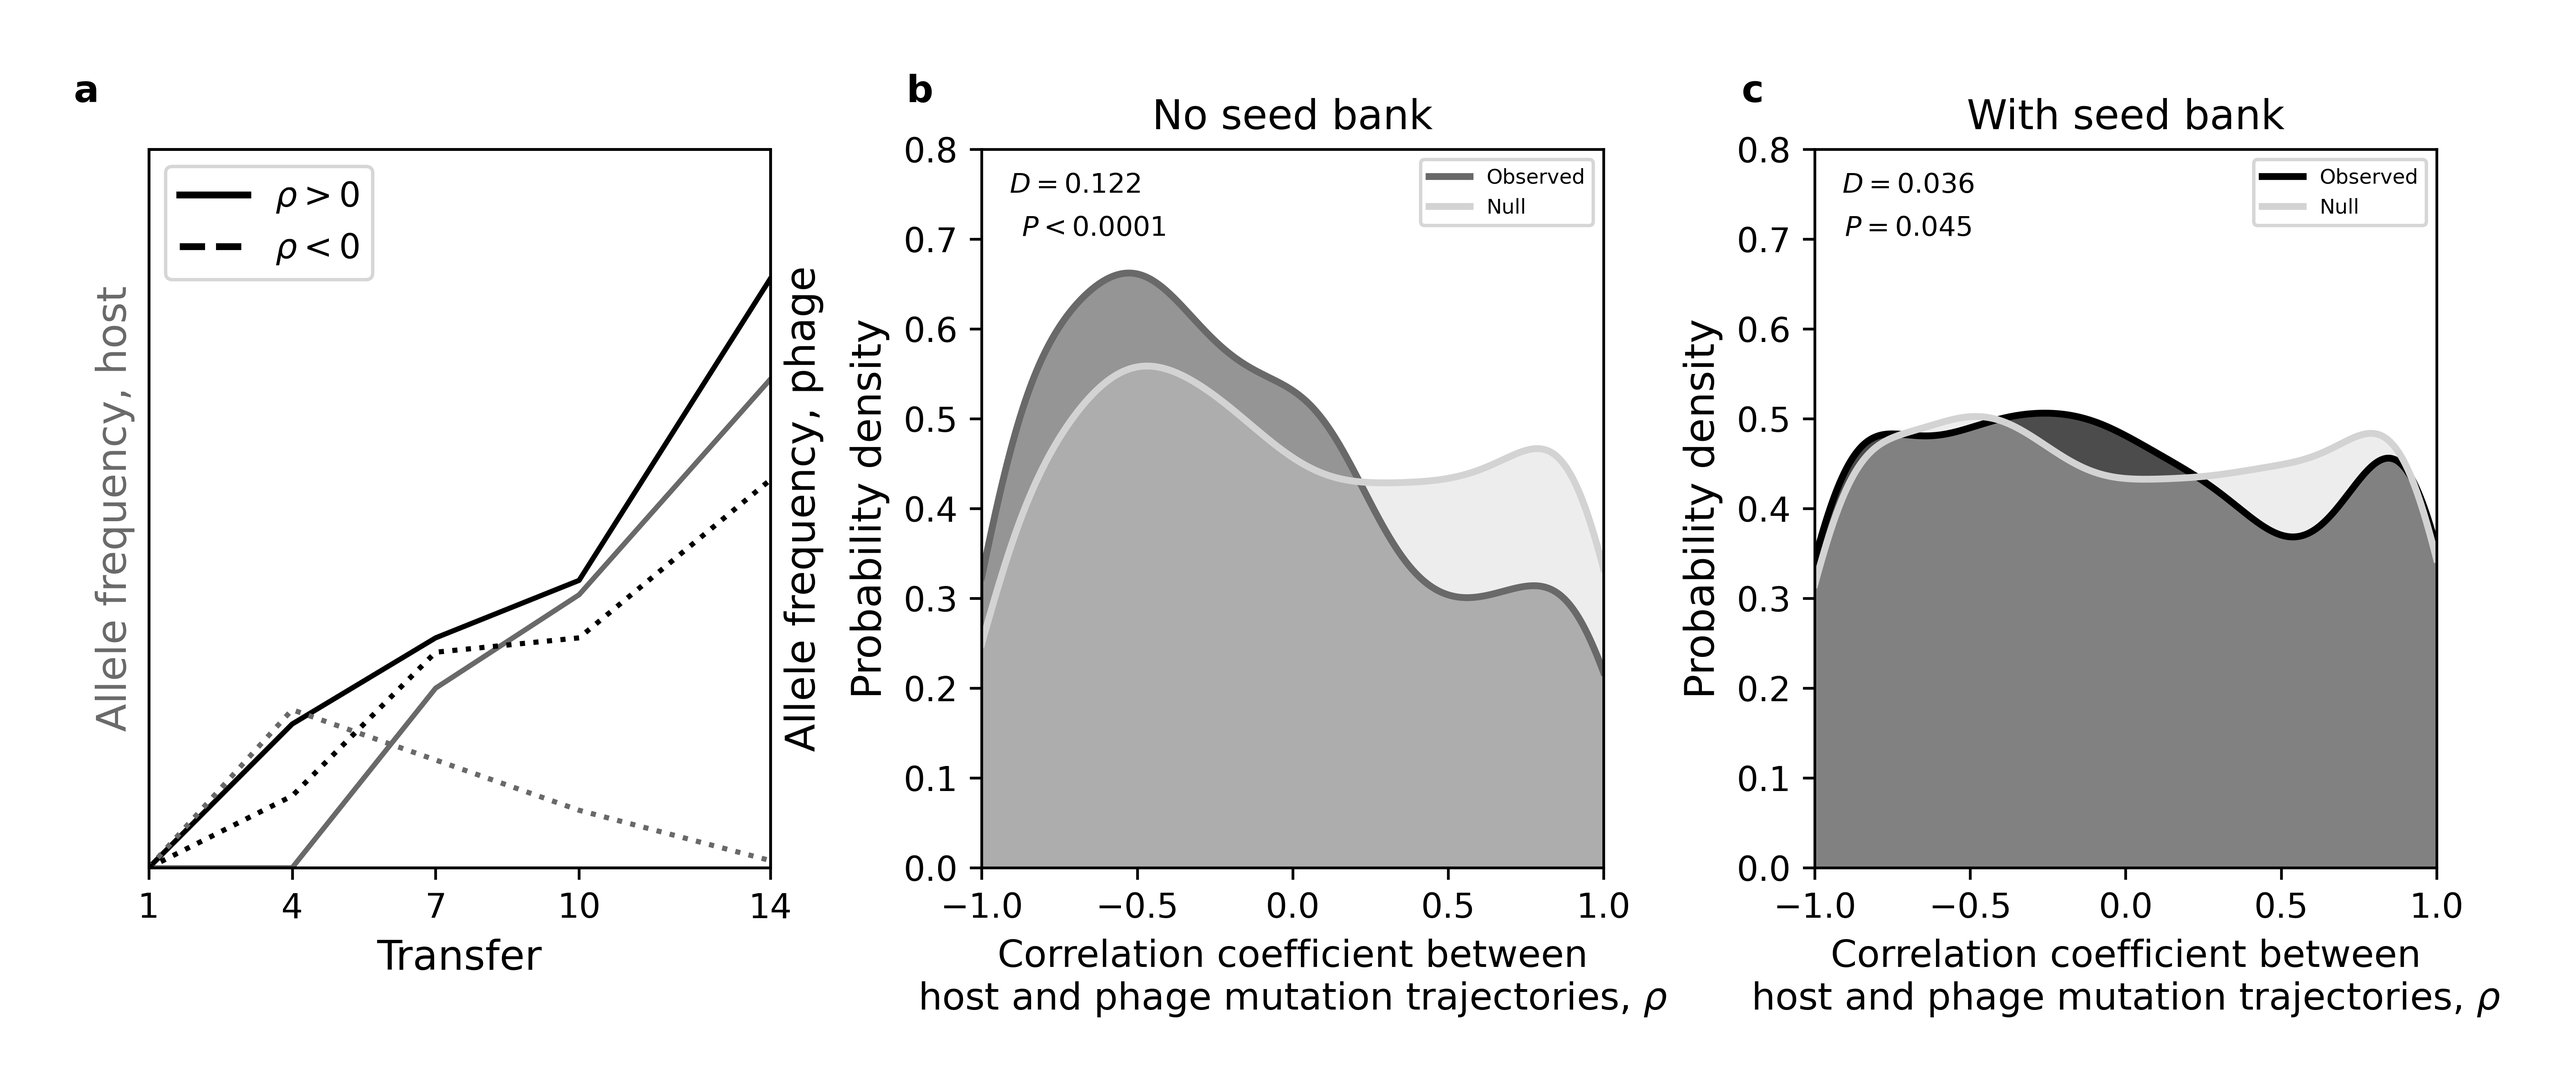
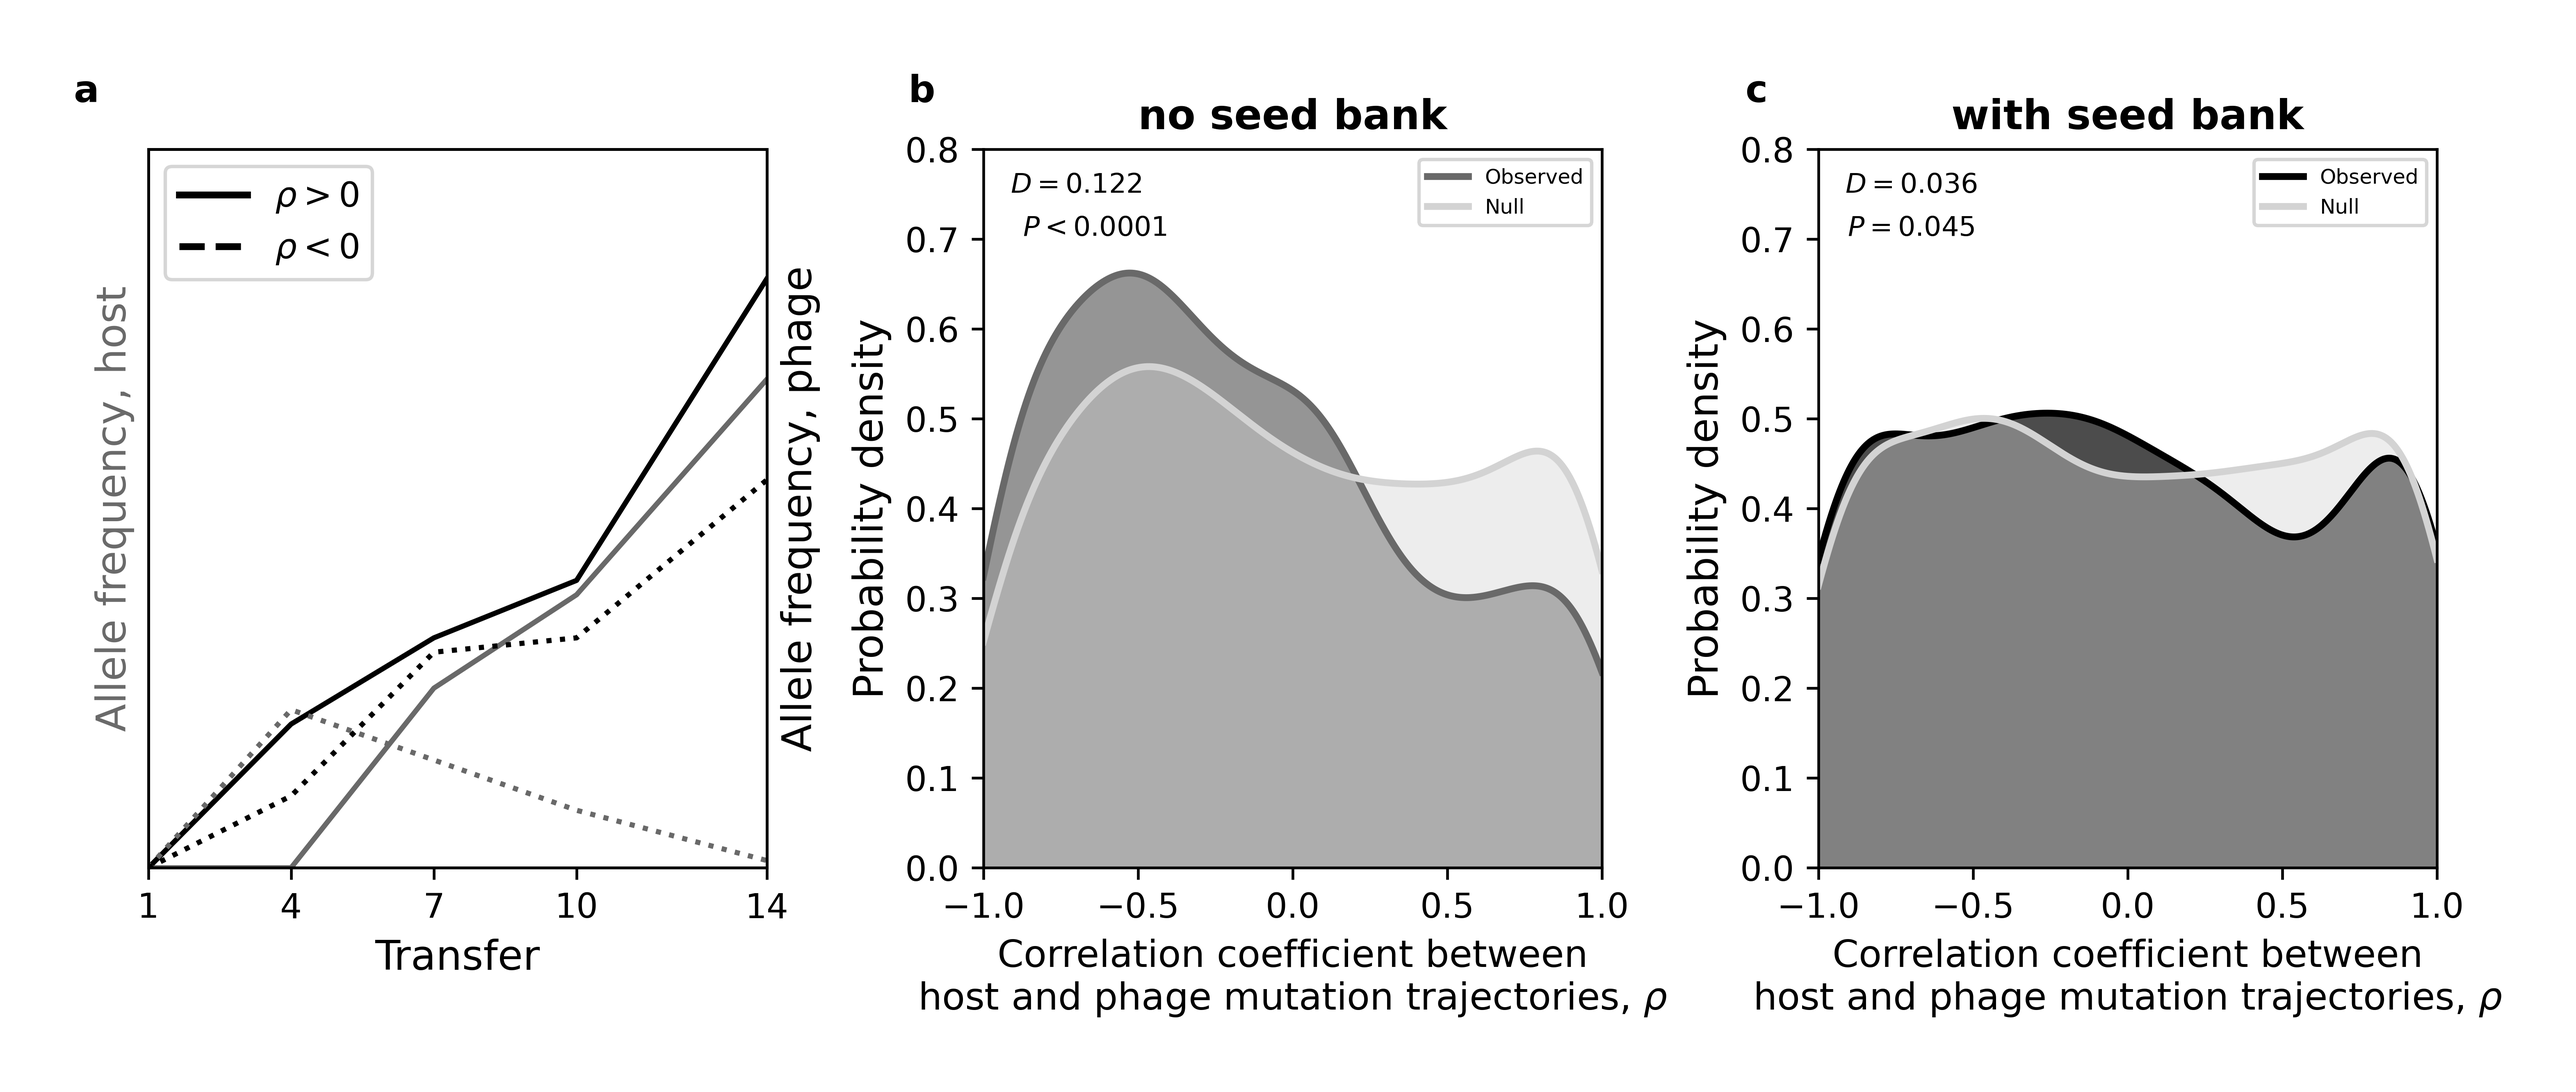
KS multiplicity

diff --git a/code/Python/run_ks_multiplicity.py b/code/Python/run_ks_multiplicity.py
@@ -1,0 +1,124 @@
+from __future__ import division
+import numpy
+import sys
+from math import fabs
+import glob, os, sys, re
+import config
+import utils
+import parse_file
+import pickle
+
+import scipy.stats as stats
+
+
+
+mult_dict = {}
+mult_dict['phage'] = {}
+mult_dict['no_phage'] = {}
+
+mult_dict['phage']['seedbank'] = []
+mult_dict['phage']['no_seedbank'] = []
+mult_dict['no_phage']['seedbank'] = []
+mult_dict['no_phage']['no_seedbank'] = []
+for line in open("%smult_host.csv" % config.data_directory, 'r'):
+
+    if 'A8O17_RS00100' in line:
+        continue
+
+    line = line.strip().split(',')
+    mult = [float(m) for m in line[1:]]
+    population = line[0]
+    if 'noPhage_' in population:
+
+        if 'no_seed_bank_' in population:
+            mult_dict['no_phage']['no_seedbank'].extend(mult)
+        else:
+            mult_dict['no_phage']['seedbank'].extend(mult)
+
+    else:
+        if 'no_seed_bank_' in population:
+            mult_dict['phage']['no_seedbank'].extend(mult)
+        else:
+            mult_dict['phage']['seedbank'].extend(mult)
+
+
+
+iter = 10000
+for phage_status in ['phage', 'no_phage']:
+
+    seedbank = numpy.asarray(mult_dict[phage_status]['seedbank'])
+    no_seedbank = numpy.asarray(mult_dict[phage_status]['no_seedbank'])
+
+    D, p = stats.ks_2samp(seedbank, no_seedbank)
+
+    measure_array_merged = numpy.concatenate((seedbank, no_seedbank))
+
+    D_null_all = []
+    for i in range(iter):
+        numpy.random.shuffle(measure_array_merged)
+
+        seedbank_null = measure_array_merged[:len(seedbank)]
+        no_seedbank_null = measure_array_merged[len(no_seedbank):]
+
+        D_null, p_null = stats.ks_2samp(seedbank_null, no_seedbank_null)
+        D_null_all.append(D_null)
+
+    D_null_all = numpy.asarray(D_null_all)
+    D_null_all = numpy.sort(D_null_all)
+
+    p_perm = sum(D_null_all > D)/iter
+
+    print(phage_status, D, p_perm)
+
+
+
+# same thing for phage
+
+
+mult_dict = {}
+seedbank_mult = []
+no_seedbank_mult = []
+for line in open("%smult_phage.csv" % config.data_directory, 'r'):
+
+    if 'SPO1_8' in line:
+        continue
+
+    line = line.strip().split(',')
+    mult = [float(m) for m in line[1:]]
+    population = line[0]
+
+    if 'no_seed_bank' in population:
+        no_seedbank_mult.extend(mult)
+    else:
+        seedbank_mult.extend(mult)
+
+
+
+
+seedbank = numpy.asarray(seedbank_mult)
+no_seedbank = numpy.asarray(no_seedbank_mult)
+
+D, p = stats.ks_2samp(seedbank, no_seedbank)
+
+measure_array_merged = numpy.concatenate((seedbank, no_seedbank))
+
+D_null_all = []
+for i in range(iter):
+    numpy.random.shuffle(measure_array_merged)
+
+    seedbank_null = measure_array_merged[:len(seedbank)]
+    no_seedbank_null = measure_array_merged[len(no_seedbank):]
+
+    D_null, p_null = stats.ks_2samp(seedbank_null, no_seedbank_null)
+    D_null_all.append(D_null)
+
+D_null_all = numpy.asarray(D_null_all)
+D_null_all = numpy.sort(D_null_all)
+
+p_perm = sum(D_null_all > D)/iter
+
+print('Phage multiplicity test', D, p_perm)
+
+
+
+#print(mult_dict)

diff --git a/code/Python/plot_corr_host_phage_pdf.py b/code/Python/plot_corr_host_phage_pdf.py
@@ -402,7 +402,7 @@ def plot_distribution_null():
         ax.set_xlabel('Correlation coefficient between\nhost and phage mutation trajectories, ' + r'$\rho$', fontsize = 11)
         ax.set_ylabel('Probability density', fontsize = 12)
         ax.legend(loc="upper right", fontsize=6)
-        ax.set_title(utils.seed_bank_types_format_dict[seed_bank_type], fontsize=12, color='k')
+        ax.set_title(utils.seed_bank_types_format_dict[seed_bank_type], fontsize=12, color='k', fontweight="bold")
 
         ax.text(0.15,  0.95, r'$D =$' + str(round(ks_dist_dict[seed_bank_type]['D'], 3)), fontsize=8, color='k', ha='center', va='center', transform=ax.transAxes  )
 
@@ -416,7 +416,7 @@ def plot_distribution_null():
 
         ax.text(-0.1, 1.08, utils.subplot_labels[seed_bank_type_idx+1], fontsize=11, fontweight='bold', ha='center', va='center', transform=ax.transAxes)
 
-    fig.subplots_adjust(wspace=0.34) #hspace=0.3, wspace=0.5
+    fig.subplots_adjust(wspace=0.35) #hspace=0.3, wspace=0.5
     fig_name = '%srho_null_pdf.png' % (config.analysis_directory)
     fig.savefig(fig_name, bbox_inches = "tight", pad_inches = 0.3, dpi = 600)
     plt.close()

diff --git a/code/Python/utils.py b/code/Python/utils.py
@@ -50,7 +50,7 @@ low_coverage_idx = numpy.asarray([2,3])
 #seed_bank_types_format_dict = {'short_seed_bank': 'Short seed bank', 'long_seed_bank': 'Long seed bank', 'no_seed_bank': 'No seed bank'}
 #seed_bank_types_format_split_dict = {'short_seed_bank': 'Short\nseed bank', 'long_seed_bank': 'Long\nseed bank', 'no_seed_bank': 'No\nseed bank'}
 
-seed_bank_types_format_dict = {'long_seed_bank': 'With seed bank', 'no_seed_bank': 'No seed bank'}
+seed_bank_types_format_dict = {'long_seed_bank': 'with seed bank', 'no_seed_bank': 'no seed bank'}
 seed_bank_types_format_split_dict = {'long_seed_bank': 'With\nseed bank', 'no_seed_bank': 'No\nseed bank'}
 
 

diff --git a/code/Python/plot_fluctuation_dists_pdf.py b/code/Python/plot_fluctuation_dists_pdf.py
@@ -606,6 +606,6 @@ def plot_f_vs_f_ratio():
         print(seed_bank_type, p)
 
 
-make_measure_dict()
-make_ks_dist_dict()
-plot_ks_dist()
+#make_measure_dict()
+#make_ks_dist_dict()
+#plot_ks_dist()
